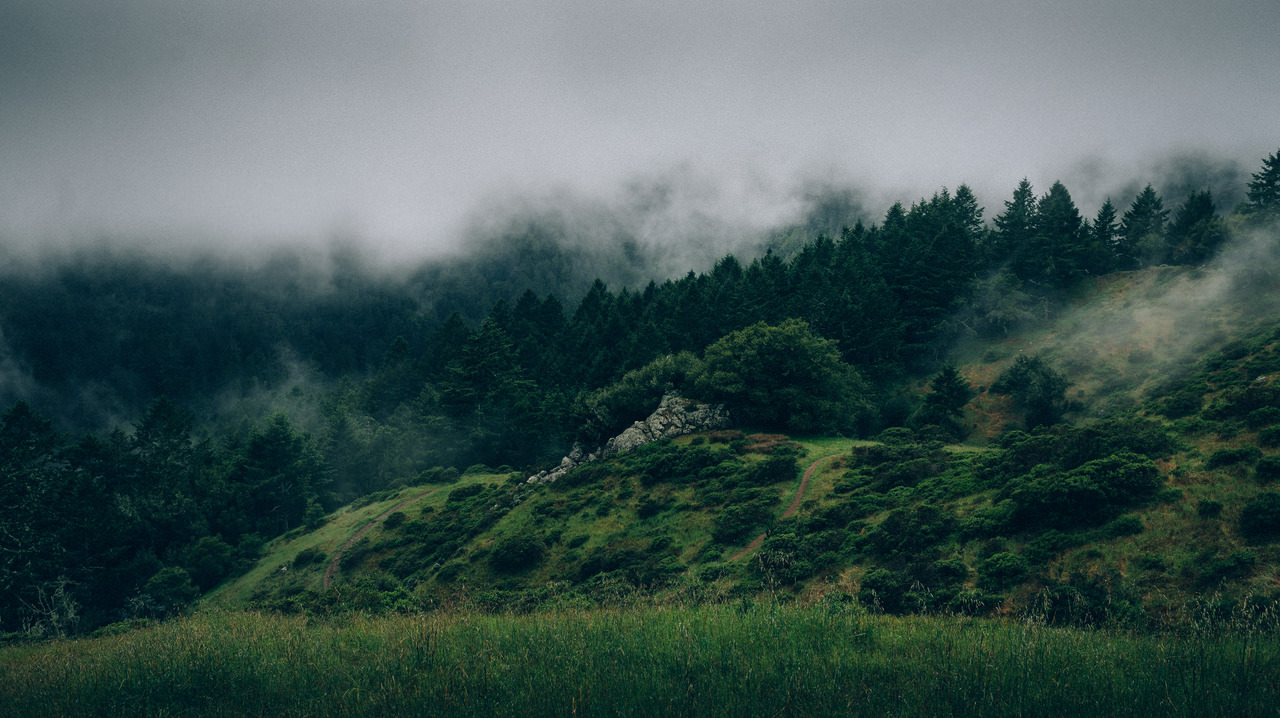
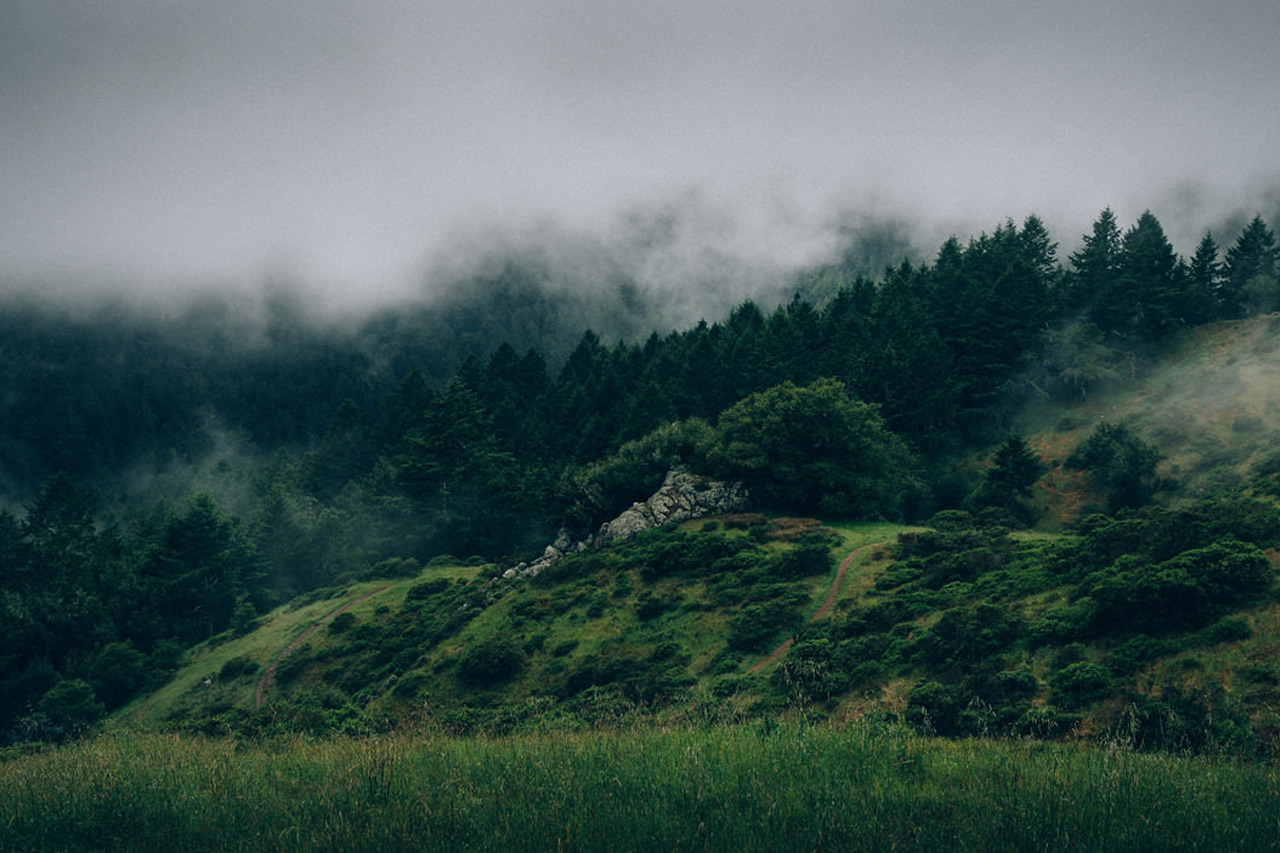
converted all iimages to the same size and made sorting work in the template

diff --git a/site/snippets/projects.php b/site/snippets/projects.php
@@ -5,7 +5,7 @@
   <li>
     <h3><a href="<?php echo $project->url() ?>"><?php echo html($project->title()) ?></a></h3>
     <p><?php echo excerpt($project->text(), 80) ?> <a href="<?php echo $project->url() ?>">read&nbsp;more&nbsp;→</a></p>
-    <?php if($image = $project->image()): ?>
+    <?php if($image = $project->images()->sortBy('sort', 'asc')->first()): ?>
     <a href="<?php echo $project->url() ?>">
       <img src="<?php echo $image->url() ?>" alt="<?php echo html($project->title()) ?>" >
     </a>
